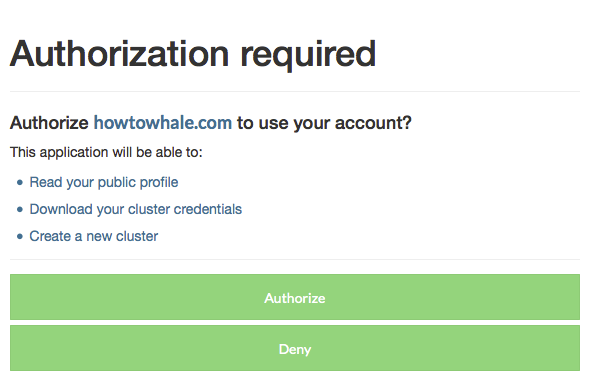
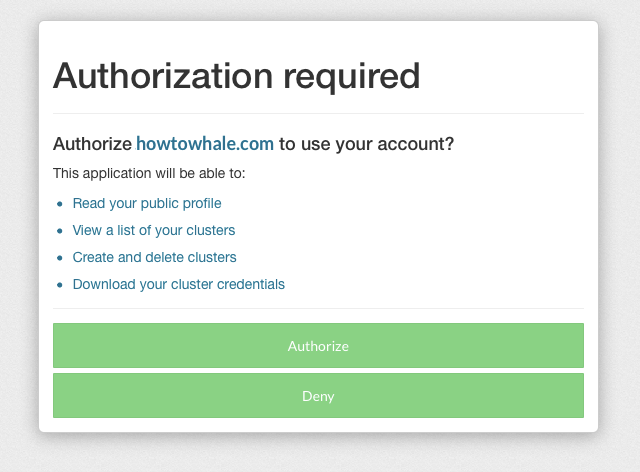
Update oauth doc for make-coe

Changed region(s): [[0.0, 0.0, 1.0, 0.9816]]

diff --git a/_reference/2016-04-08-oauth-integration.md b/_reference/2016-04-08-oauth-integration.md
@@ -1,7 +1,7 @@
 ---
 title: OAuth integration
 author: Carolyn Van Slyck <carolyn.vanslyck@rackspace.com>
-date: 2016-04-08
+date: 2017-01-17
 permalink: docs/reference/oauth-integration/
 description: Learn how to integrate your application with Carina using OAuth
 ---
@@ -133,8 +133,9 @@ The following OAuth scopes are available, granting your application varying
 levels of access to a user's account.
 
 * [Identity](#identity)
-* [Cluster credentials](#cluster-credentials)
-* [Create cluster](#create-cluster)
+* [Read](#read)
+* [Write](#write)
+* [Execute](#execute)
 
 All requests must include an authorization header, `Authorization: bearer <access_token>`,
 replacing `<access_token>` with the OAuth token returned from the `/oauth/token` endpoint.
@@ -144,11 +145,9 @@ The `identity` scope enables an application to read a user's profile. Because th
 amount of information in a user's profile is limited, this scope is mainly useful
 for delegating your application's authentication to Carina.
 
-**Example request**
+**Get current user**
 
-`GET https://oauth.getcarina.com/me`
-
-**Example response**
+`GET https://oauth.getcarina.com/users/current`
 
 ```json
 {
@@ -159,52 +158,153 @@ for delegating your application's authentication to Carina.
 }
 ```
 
-#### Cluster credentials
-The `cluster_credentials` scope enables an application to download the credentials
-zip file for a user's Carina cluster. Replace `<clusterName>` with name of the cluster.
+#### Read
+The `read` scope enable an application to query for information about the clusters
+on the user's Carina account.
 
-**Example request**
+**List clusters**
 
-`GET https://oauth.getcarina.com/clusters/<clusterName>`
+`GET https://oauth.getcarina.com/proxy/clusters`
 
-**Example responses**
+```json
+{
+  "clusters": [
+    {
+      "status": "active",
+      "name": "mycluster",
+      "cluster_type": {
+        "active": true,
+        "coe": "kubernetes",
+        "host_type": "lxc",
+        "name": "Kubernetes 1.4.4 on LXC",
+        "id": 17
+      },
+      "created_at": "2017-01-11T21:56:34.327946+00:00",
+      "updated_at": "2017-01-11T21:56:31.799278+00:00",
+      "node_count": 1,
+      "id": "d09da2f3-1d31-4521-b856-54256fb0c52f"
+    }
+  ]
+}
+```
+
+**Get cluster**
+
+`GET https://oauth.getcarina.com/proxy/clusters/<clusterId>`
+
+```json
+{
+  "status": "active",
+  "name": "mycluster",
+  "cluster_type": {
+    "active": true,
+    "coe": "kubernetes",
+    "host_type": "lxc",
+    "name": "Kubernetes 1.4.4 on LXC",
+    "id": 17
+  },
+  "created_at": "2017-01-11T21:56:34.327946+00:00",
+  "updated_at": "2017-01-11T21:56:31.799278+00:00",
+  "node_count": 1,
+  "id": "d09da2f3-1d31-4521-b856-54256fb0c52f"
+}
+```
+
+**List cluster templates**
+
+`GET https://oauth.getcarina.com/proxy/cluster_types`
+
+```json
+{
+  "cluster_types": [
+    {
+      "active": true,
+      "coe": "swarm",
+      "host_type": "lxc",
+      "name": "Swarm 1.11.2 on LXC",
+      "id": 16
+    },
+    {
+      "active": true,
+      "coe": "kubernetes",
+      "host_type": "lxc",
+      "name": "Kubernetes 1.4.4 on LXC",
+      "id": 17
+    }
+  ]
+}
+```
+#### Write
+The `write` scope enables an application to create and delete clusters on the user's
+Carina account.
+
+**Create cluster**
+
+```
+POST https://oauth.getcarina.com/proxy/clusters
+{
+  "cluster_type_id": "17",
+  "node_count": 1,
+  "name": "<clusterName>"
+}
+```
+
+```json
+{
+  "status": "creating",
+  "name": "mycluster",
+  "cluster_type": {
+    "active": true,
+    "coe": "kubernetes",
+    "host_type": "lxc",
+    "name": "Kubernetes 1.4.4 on LXC",
+    "id": 17
+  },
+  "created_at": "2017-01-16T17:47:58.023553+00:00",
+  "updated_at": "2017-01-16T17:47:58.023553+00:00",
+  "node_count": 1,
+  "id": "f6589883-3ab5-4c9e-b06e-9d6f70af1e80"
+}
+```
+
+**Delete cluster**
+
+`DELETE https://oauth.getcarina.com/proxy/clusters/<clusterId>`
+
+```json
+{
+  "status": "deleting",
+  "name": "mycluster",
+  "cluster_type": {
+    "active": true,
+    "coe": "kubernetes",
+    "host_type": "lxc",
+    "name": "Kubernetes 1.4.4 on LXC",
+    "id": 17
+  },
+  "created_at": "2017-01-16T17:47:58.023553+00:00",
+  "updated_at": "2017-01-16T17:47:58.023553+00:00",
+  "node_count": 1,
+  "id": "f6589883-3ab5-4c9e-b06e-9d6f70af1e80"
+}
+```
+
+#### Execute
+The `execute` scope enables an application to download the credentials
+zip file for a user's Carina cluster. Replace `<clusterId>` with id of the cluster.
+
+**Download cluster credentials**
+
+`GET https://oauth.getcarina.com/proxy/clusters/<clusterId>/credentials/zip`
 
 The body of the response is the user's cluster credentials zip file, provided as
 an `application/zip` encoded binary attachment.
 
 If the cluster is not yet active, a `404 NOT FOUND` response is returned.
-After a new cluster is created, it can take 2-3 minutes for the cluster to become active.
-Poll the cluster credentials endpoint at a reasonable interval, such as every 30 seconds,
+After a new cluster is created, it can take a few minutes for the cluster to become active.
+Poll the cluster endpoint at a reasonable interval, such as every 30 seconds,
 until the cluster is active.
 
-```json
-{
-  "message": "The cluster is not yet active. Retry this request later."
-}
-```
-
-#### Create cluster
-The `create_cluster` scope enables an application to create a cluster on the user's
-Carina account. Replace `<clusterName>` with the name of the cluster to create.
-
-**Note**: If the cluster already exists, rather than returning an error, the request
-is considered successful and the cluster information is returned. 
-
-**Example request**
-
-`PUT https://oauth.getcarina.com/clusters/<clusterName>`
-
-**Example response**
-
-```json
-{
-  "cluster_name": "<clusterName>",
-  "status": "building",
-  "autoscale": false,
-  "flavor": "container1-4G",
-  "nodes": 1
-}
-```
 
 ### Resources
 * [OAuth2 libraries][oauth-libs]
